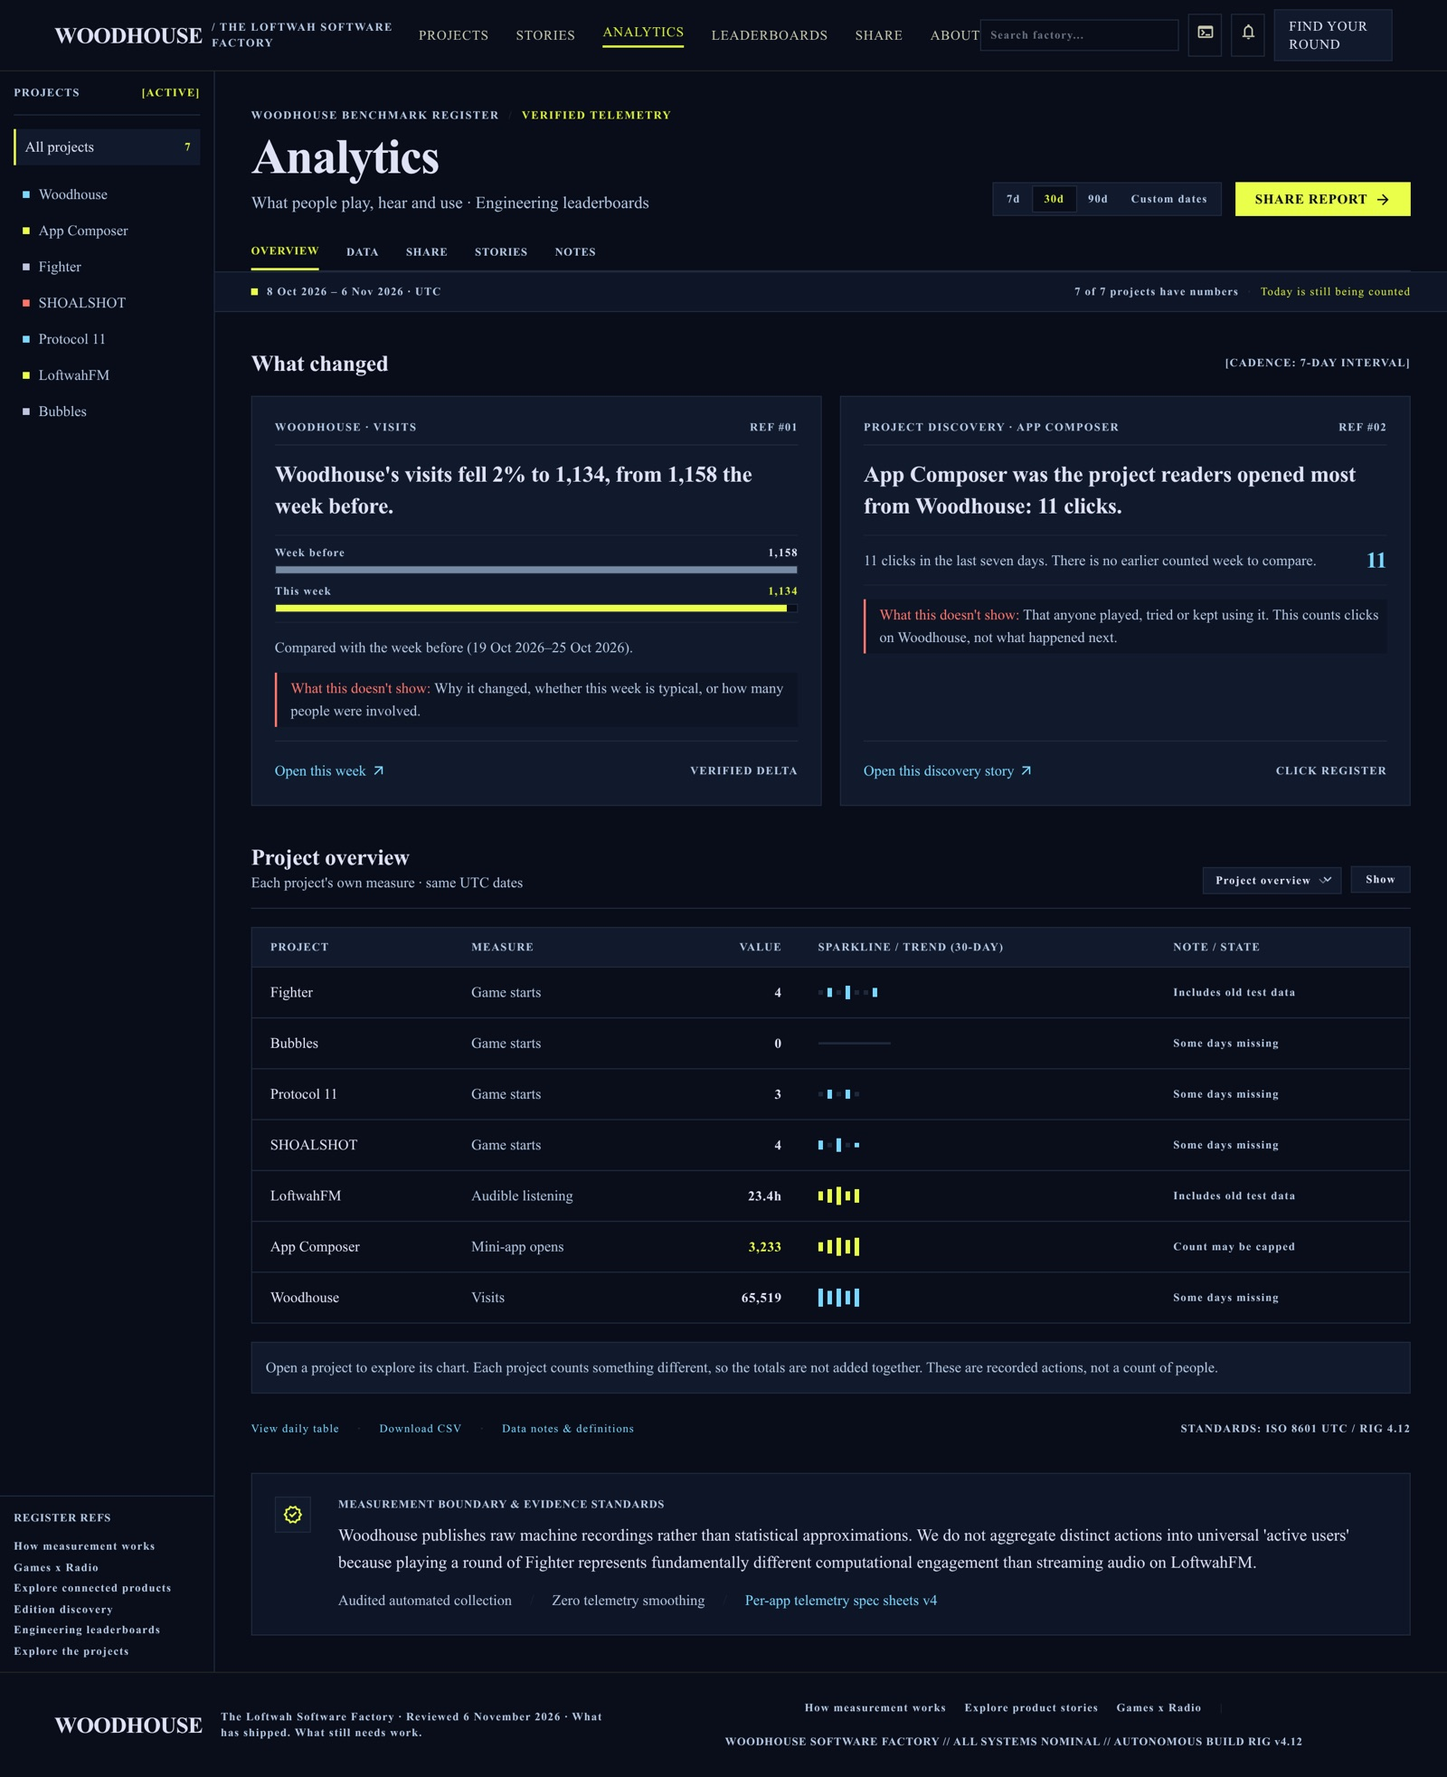
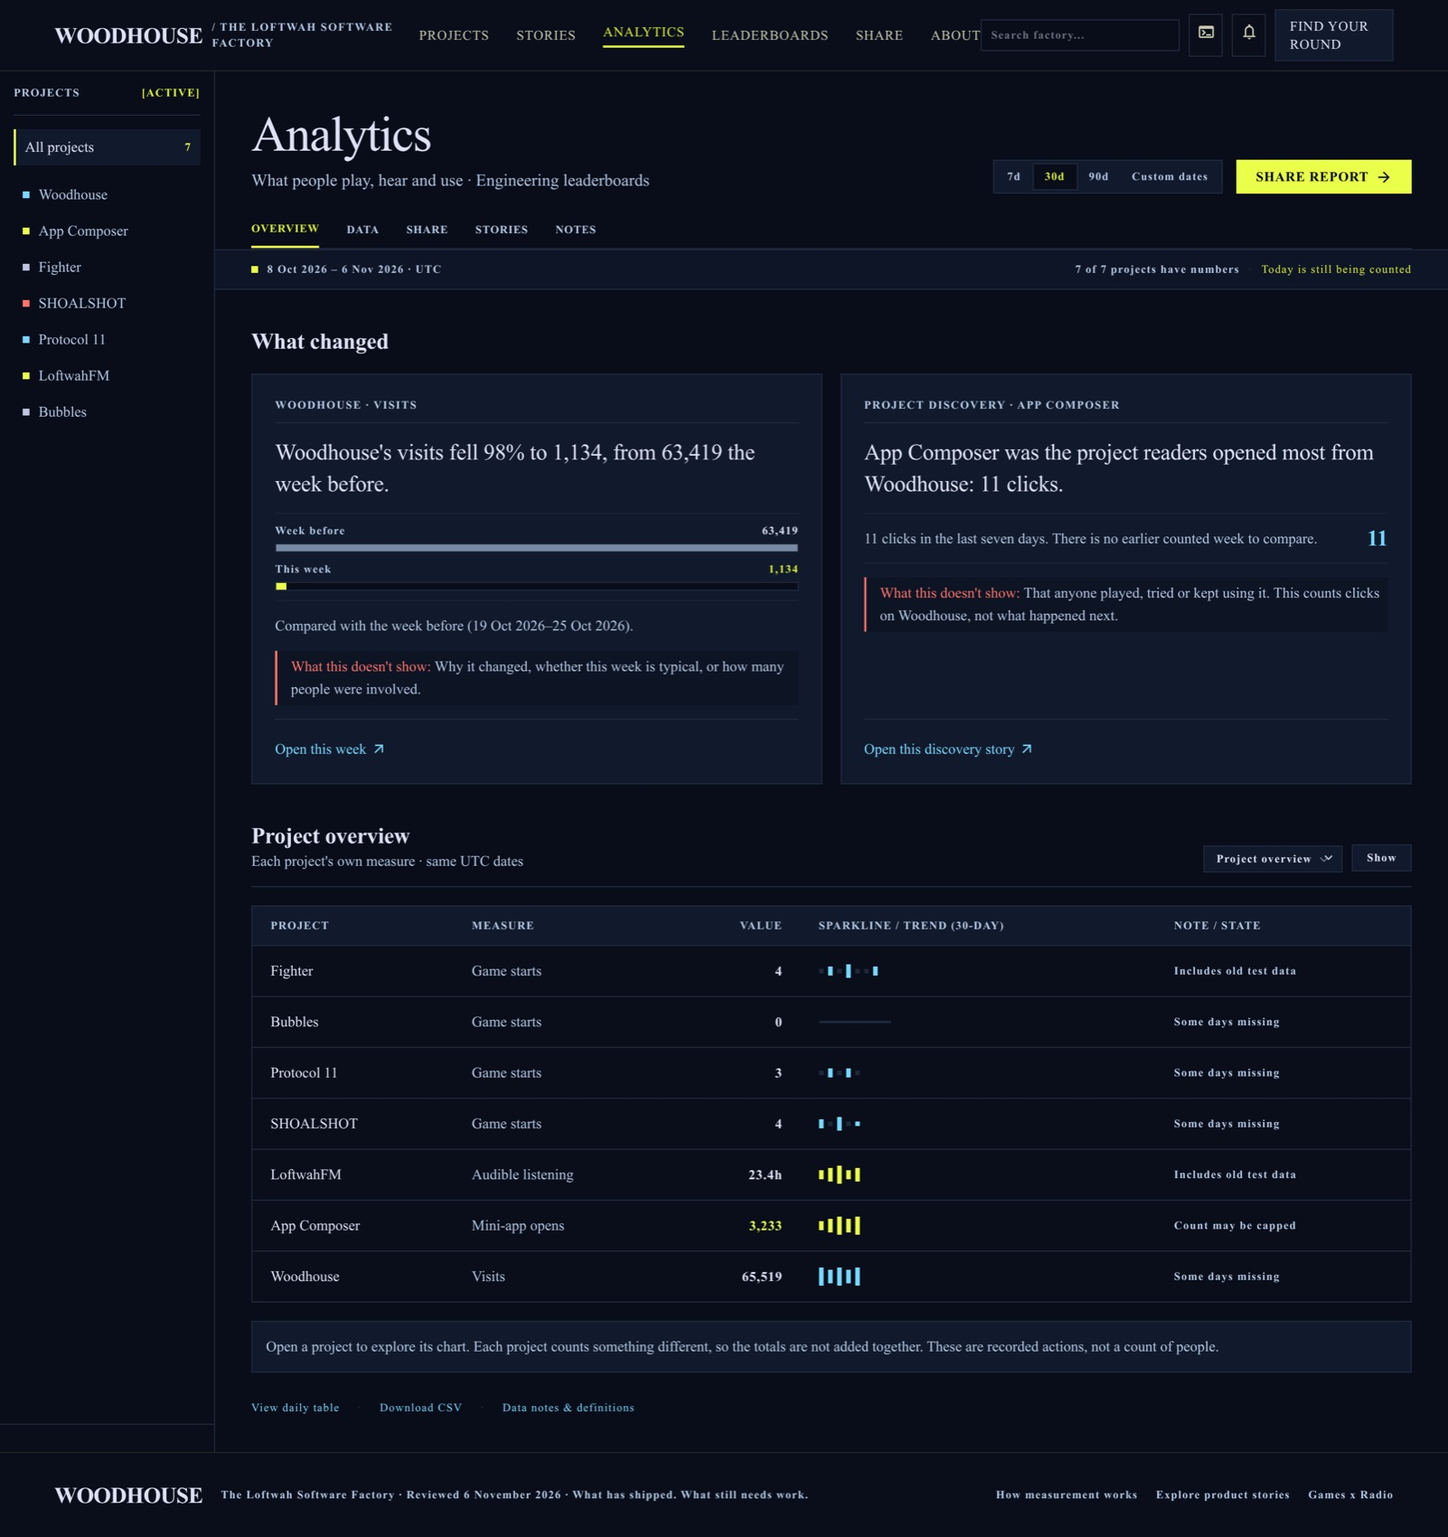
Correct the analytics Stitch reference and generate the remaining design families
The analytics screen now carries only the real figures (98% fall, 1,134 this
week from 63,419) and none of the invented benchmark, telemetry or ISO chrome.
Nine further screens cover leaderboards, listening, architecture, evidence,
factory, connections, Woodhouse-owned surfaces, a 390px catalogue and the
interaction state sheet, plus a closing consistency record.

Every new screen arrived with an invented instrument layer; nine needed at
least one correction and one kept a document id after two. The review record
names the residual defects, the superseded screen ids and the audit method:
check the generated HTML, not the screenshot.

Design references only. No production route changed.

diff --git a/docs/stitch/README.md b/docs/stitch/README.md
@@ -1,12 +1,11 @@
 # Woodhouse Stitch project
 
-Reviewed 6 November 2026. This records what was actually generated in Google Stitch, what was
+Reviewed 7 November 2026. This records what was actually generated in Google Stitch, what was
 rejected, and what a future pass must correct. Stitch is a design workspace; it is not evidence that
 a screen works, that the content is true or that the production site has changed.
 
-The remaining Stitch work is parked in [issue #170](https://github.com/loftwah/woodhouse-new/issues/170)
-after the service hit its daily generation limit. Production repairs and the Storybook workshop did
-not depend on it and are already shipped.
+The design work is tracked in [issue #170](https://github.com/loftwah/woodhouse-new/issues/170). No
+production route changed in either pass, and this pass did not redeploy the site.
 
 ## Project
 
@@ -16,9 +15,13 @@ not depend on it and are already shipped.
   (Stitch generated this from the first prompt; it approximates the production tokens rather than
   reproducing them exactly. The canonical tokens are in [`DESIGN-FOUNDATION.md`](DESIGN-FOUNDATION.md)
   and `src/styles/global.css`.)
-- **Device:** desktop project with a separate 390px mobile screen.
+- **Device:** desktop project with separate 390px mobile screens.
 
 ## Screens generated
+
+The 6 November pass produced the first eight. The 7 November pass corrected the analytics screen and
+generated the seven missing families. Where a correction produced a new screen, the accepted screen
+is listed; superseded intermediate screens are listed further down and must not be used.
 
 | File | Screen | Stitch ID | Notes |
 | --- | --- | --- | --- |
@@ -26,10 +29,37 @@ not depend on it and are already shipped.
 | `02-projects.jpg` | Projects catalogue | `70d71a81fbd840d2ae8634545d408989` | Accurate names and hooks. Disciplines/actions for the lower rows were inferred by the model; production's published fields are authoritative. Artwork is abstract placeholder. State labels are too low contrast. |
 | `03-project-bubbles.jpg` | Bubbles project record | `e476b48600524396a7548b5b5ad73209` | Uses the supplied copy. Placeholder artwork. Review before using any spacing or copy treatment. |
 | `04-field-note.jpg` | Field-note article | `c4a9cc36b55e47f6901ea58af787e4f7` | Uses the supplied argument and evidence rail. Check the plate's labels against the real article. |
-| `05-analytics.jpg` | Analytics workbench | `4c8e4eea61114476a69251f6369e868f` | **Not accepted as-is.** See "Known inaccuracies". |
+| `05-analytics.jpg` | Analytics workbench, corrected | `446563288c1549bbb56b520ca8436857` | **Accepted.** Replaces `4c8e4eea61114476a69251f6369e868f`. Real figures only: 98% fall, 1,134 this week, 63,419 the week before, 11 discovery clicks, and the seven project rows with their notes. Two correction passes removed the benchmark register, "verified telemetry", reference numbers, ISO/rig footer, `REGISTER REFS` rail label and the invented reading-notes panel. The rail's six footer links were dropped by the model in the second pass; not restored. |
 | `06-share.jpg` | Share gallery | `7ce2bb923a7b437e8f6f9993f4f20eb9` | Uses the real asset descriptions. Placeholder previews; production uses the approved files. |
 | `07-patch-bench.jpg` | Patch bench exhibit | `13595482b46a47179b65209d1c659196` | Direction only. The real exhibit is HTML/CSS/canvas with one audio context; this is a flat reference. |
 | `08-mobile-home.jpg` | Homepage, 390px | `b43b458af66846e88841b2cb8f701bf4` | Reading order is correct: `h1` and actions before the plate. Loom is a placeholder. |
+| `09-leaderboards.jpg` | Engineering leaderboards | `3c7cd840fdd546dfbde13e10f6928ad4` | **Accepted.** Corrected once to remove an invented ratio ("4 of 7 repositories reporting") and a status footer. Four repository rows with real partial/missing coverage states. |
+| `10-listening.jpg` | Scores and listening | `1b26f24c2cd542328b490124a28478f2` | **Accepted.** Corrected once to remove a "system status / build rig" footer and an invented timestamp label. Keeps the reported-listening rows, the dash-for-missing rule and both coral boundary statements. |
+| `11-architecture.jpg` | How Woodhouse works | `44cba77a72eb406fb46d26168934f7c8` | **Accepted with deviation.** Register/plate chrome and an invented right-rail record block removed. The plate's three boundary labels collide at narrow desktop widths, so it is a composition reference only. Supplied boundary copy survives in the transcript, which is why "telemetry" and "verified" appear in the source. |
+| `12-evidence.jpg` | Evidence record | `2501617aa2fc4427b391194a55925b0d` | **Accepted.** Corrected to remove `EVIDENCE RECORD 04 / 12`, `REV - 04-A`, `REGISTER REF: EVD-2026-004`, `VERIFIED`, `BOUND` and the audit-protocol line. |
+| `13-factory.jpg` | The factory | `afa170d5427e44368ed8c1bb3f1fd5ae` | **Accepted with deviation.** Instrument labels and the diagram's invented internals removed. `DOC-ID: FCT-094` survived two explicit correction requests and remains in the breadcrumb; crop or remove it before any use. |
+| `14-connections.jpg` | Connections | `b13a26813750401e9ace02bbcc596cbb` | **Accepted.** Corrected to remove `SYNC INTEGRITY: 100%`, the plate header, node ids and the index/cadence labels. The five-row ledger and the source-only states are correct. |
+| `15-extension-states.jpg` | Woodhouse-owned surfaces | `5e120b0fc2d4468e94acda28771bcd0b` | **Accepted.** Three panels: the editorial policy refusal, the enquiries list and the read-only production boundary. Corrected to remove `SPEC / REF-048`, `SEC 01–03`, `ENVIRONMENT STATE: LOCKED` and the record counter. The browser title still contains `SPEC`; the visible breadcrumb does not. |
+| `16-mobile-projects.jpg` | Projects catalogue, 390px | `496c4282411e43c18f4670bfee5c5c20` | **Accepted.** Deliberate phone composition: stacked linked rows, a clipped horizontal filter rail, 44px targets and a labelled artwork placeholder. The per-row `NN / 12` counter and the card treatment are deviations from production's open rows. |
+| `17-interaction-states.jpg` | Interaction and component states | `814da68016b5444daedb3b9a69f9926e` | **Accepted.** Covers actions, search, filters, share, media, analytics, forms, status labels and motion. Corrected to remove the analysis-band chrome and to replace the invented status word "Nominal standby". |
+| `18-design-references.jpg` | Design references, closing record | `98f7a54550dd4e22a6f958e5013ef422` | **Accepted.** The consistency record for the whole set: what each screen is, what was corrected, what is banned and what deviations remain. Its own correction removed an invented `CONSISTENCY SCORE: 100%` audit strip — the same failure the sheet documents. |
+
+### Superseded screens
+
+These exist in the project and must not be used as references:
+
+| Superseded ID | Replaced by |
+| --- | --- |
+| `4c8e4eea61114476a69251f6369e868f` | `446563288c1549bbb56b520ca8436857` (analytics) |
+| `a174a7b720a34a34bf239e2d8922519d` | `446563288c1549bbb56b520ca8436857` (first correction, still had `REGISTER REFS`) |
+| `7056b66902b34a3aba7436afa8acf6d8` | `3c7cd840fdd546dfbde13e10f6928ad4` |
+| `c3ad2bfa404f4856acd03d8f352235d7` | `1b26f24c2cd542328b490124a28478f2` |
+| `113994f647bb4ad6b8d16f6f12f949b9` | `44cba77a72eb406fb46d26168934f7c8` |
+| `01177786c433458eb5eb87366d593805` | `2501617aa2fc4427b391194a55925b0d` |
+| `7d90e384e05b4005890370999833f642` | `afa170d5427e44368ed8c1bb3f1fd5ae` |
+| `23bc68bce5d441a7b059c615b1d446c9` | `b13a26813750401e9ace02bbcc596cbb` |
+| `0f9f1113bcd64945a2aec8f3598cc319` | `5e120b0fc2d4468e94acda28771bcd0b` |
+| `e0326362eb604e3882cd71d77066072d` | `98f7a54550dd4e22a6f958e5013ef422` |
 
 ## Rejected first pass
 
@@ -43,34 +73,59 @@ is retained in the project by the service but must not be used. It invented:
 It is a worked example of why generated design is not accepted on appearance. The corrected screens
 above use the real content supplied in the prompts.
 
+## The recurring failure: invented instrument chrome
+
+Every new screen in the 7 November pass arrived with an invented "instrument" layer: a status
+footer (`SYSTEM STATUS: ONLINE`, `ALL SYSTEMS NOMINAL`, `AUTONOMOUS BUILD RIG v4.12`), document and
+reference ids (`DOC-ID: FCT-094`, `REF-048`, `REGISTER REF: EVD-2026-004`), plate and figure labels,
+and occasionally a fabricated figure (`SYNC INTEGRITY: 100%`, `CONSISTENCY SCORE: 100%`, a "4 of 7
+repositories reporting" ratio).
+
+This survived the generic instruction "do not invent". It only went away when a correction named
+the exact strings to delete and the exact words to avoid. Nine of the eleven new screens needed at
+least one correction; the analytics screen needed two.
+
+What worked, and should be used first next time:
+
+1. Treat generation as a first draft. Budget one correction per screen.
+2. In the correction, list the literal strings to delete, the words to avoid, and the exact content
+   to keep. Generic "remove invented chrome" is not enough.
+3. Verify the result by auditing the generated HTML, not the screenshot. Download `htmlCode`, strip
+   tags, and search for banned tokens and percentages. This caught two screens that looked clean and
+   one rejection that only existed in the `<title>`.
+4. Two correction requests were silently ignored for `13-factory.jpg`. Record the residual rather
+   than claiming a clean pass.
+
 ## Known inaccuracies in the accepted references
 
-- **Analytics (05)** still carries generated technical chrome ("benchmark register", "verified
-  telemetry", reference numbers, ISO certification, an invented measurement-boundary box and a
-  system-status footer) and a placeholder prior value of 1,158 instead of the real 63,419. The
-  correction request hit the daily Stitch generation limit on 6 November 2026. The real figures and
-  allowed labels are in [Prompt 06](../STITCH-PROMPT-PACK.md#prompt-06--analytics). Do not copy this
-  screen's numbers or chrome; use the production page.
-- **Artwork** in every screen is a placeholder. It is never evidence of the product's official
-  artwork. Production reads each product's published Open Graph image.
-- **Inferred fields.** The catalogue screen inferred some disciplines, actions and statuses for
+- **Artwork** in every screen is a placeholder. Stitch's available tool surface can generate screens
+  from text and edit them with text, but it exposes no screen-image upload, so the placeholders
+  could not be replaced with real product artwork in this pass. Every one is labelled
+  `ARTWORK FROM THE PROJECT` or `PLACEHOLDER`. Production reads each product's published Open Graph
+  image.
+- **Inferred fields.** The catalogue screens inferred some disciplines, actions and statuses for
   lower rows. The published EmDash record is authoritative.
-- **Type and buttons.** Stitch uses heavier display weights, uppercase primary buttons and slightly
-  rounder corners than production. Production uses Bricolage Grotesque at 500, sentence-case actions
-  and 0–2px corners.
-- **Loom plate.** The real plate is browser-drawn fibre artwork with a still fallback. The references
-  use a quiet placeholder.
+- **Type.** Stitch renders display type heavier and wider than Bricolage Grotesque at 500. Several
+  new screens render display headings in a serif face instead of Bricolage; production uses
+  Bricolage Grotesque. Primary buttons are uppercase and corners reach 4px on some panels.
+  Production uses sentence-case actions and 0–2px corners.
+- **Loom plate.** The real plate is browser-drawn fibre artwork with a still fallback. The
+  references use a quiet placeholder.
+- **Residual chrome.** `13-factory.jpg` keeps `DOC-ID: FCT-094` in its breadcrumb. `11-architecture.jpg`
+  keeps a collided boundary label in its plate. Neither is a content claim, but neither should be
+  copied.
 
 ## What was not generated
 
-- Leaderboards, listening and measurement-choice screens.
-- Architecture/evidence detail, Factory, Connections, Agent Reception, Dean, Contact, Doctrine.
-- EmDash-owned authoring surfaces.
-- Component/state sheets and a formal responsive matrix.
+- Agent Reception, Dean, Contact and Doctrine (the remaining four pages of prompt 11).
+- Tablet, laptop and large-desktop compositions for the responsive matrix (prompt 13); only the
+  390px projects catalogue was generated.
+- The working-loom and shipping-press plates (prompts 16 and 16B), which are gated behind the
+  #158/#90 first-frame comparison and were deliberately not commissioned here.
+- EmDash-owned authoring surfaces beyond the three extension panels.
+- A public Storybook, and any runtime Stitch dependency.
 
-Those remain manual Stitch work. Use
-[`STITCH-PROMPT-PACK.md`](../STITCH-PROMPT-PACK.md) prompts 07, 09, 11, 12, 13, 14 and 15. They are
-written to be pasted directly into the same project so the generated design system stays consistent.
+These remain manual Stitch work. Paste prompts 11, 13 and 16 directly into the same project.
 
 ## What the mockups changed in production
 
@@ -86,11 +141,17 @@ changed the production system where they were materially better:
 | 05 Analytics | The real 98% / 63,419 / 1,134 copy and singular "1 click" are correct in production; the phone rail opens on the selected project. | Every piece of invented benchmark, telemetry and ISO chrome. |
 | 06 Share | The phone project rail scrolls horizontally with an edge fade and opens on the current project. | Placeholder previews; production uses the approved files. |
 | 07 Patch bench | No visual copy. The real exhibit remains the authored HTML/CSS/canvas experience. | The flat generated bench. |
+| 09–18 | No production change. These are design references only; the live routes remain authoritative. | Every generated state label, placeholder and correction artefact. |
 
 This is the intended relationship: the mockups propose composition and hierarchy; the production
-route keeps its real content, artwork, accessibility and evidence. The remaining ungenerated
-families can be inferred from the foundation and these patterns, but the design work in
-[issue #170](https://github.com/loftwah/woodhouse-new/issues/170) is still useful if it is picked up.
+route keeps its real content, artwork, accessibility and evidence.
+
+## Prompt 15, executed as an audit
+
+Prompt 15 asks for comparison and removal, not a new page. It was executed twice: as a
+source-checked audit of every generated screen's HTML, and as the closing record screen
+(`18-design-references.jpg`). The audit is the stronger artefact — a screenshot can hide a wrong
+number in a favicon-sized label, and the HTML cannot.
 
 ## Signature artwork
 
@@ -105,12 +166,13 @@ failure to erase.
 ## Continuing safely
 
 1. Open the project in Stitch and confirm the design system is `Woodhouse`.
-2. Paste one prompt at a time. Supply real content; do not ask the model to fill gaps.
+2. Paste one prompt at a time. Supply real content, verbatim sentences and exact numbers; do not ask
+   the model to fill gaps.
 3. Compare the result with the live route and the inventory before accepting it.
-4. If the model invents a metric, project or certification, reject the screen rather than editing
-   around it. The first pass is the reason for this rule.
-5. Record the new screen ID and its review outcome in this file.
-6. Never treat a Stitch screen as production verification.
+4. Budget one correction pass. Name the exact strings to delete and the words to avoid.
+5. Audit the generated HTML for banned tokens and percentages, not only the screenshot.
+6. Record the new screen ID, its superseded predecessors and its review outcome in this file.
+7. Never treat a Stitch screen as production verification.
 
 ## Downloads
 

diff --git a/docs/STITCH-PROMPT-PACK.md b/docs/STITCH-PROMPT-PACK.md
@@ -1,14 +1,18 @@
 # Woodhouse Stitch prompt pack
 
-Reviewed 6 November 2026. Copy each prompt into the Woodhouse Stitch project
+Reviewed 7 November 2026. Copy each prompt into the Woodhouse Stitch project
 (`projects/2818325185592691947`) in order. The project's design system is `Woodhouse`; use it for
 every screen so the foundational tokens stay consistent.
 
 The first generation pass invented metrics, projects and statuses. It was rejected. The rules below
 exist because that happened: **do not invent**. Read
 [`stitch/README.md`](stitch/README.md) for the review record and the screens already generated.
-The unfinished prompts are parked in
-[issue #170](https://github.com/loftwah/woodhouse-new/issues/170).
+
+Status after the 7 November 2026 pass: prompts 00–08 are generated; 06 was corrected twice and is
+accepted. Prompt 07 (both screens), 09 (both), 12, 14 and 15 are generated and recorded. Prompt 11
+produced Factory and Connections only; prompt 13 produced the 390px projects catalogue only. The
+rest of 11 and 13, and prompts 16/16B, remain manual. Every new screen needed at least one
+correction for invented chrome — see the finding in `stitch/README.md` before generating.
 
 ## Non-negotiable content rules for every prompt
 
@@ -26,6 +30,23 @@ The unfinished prompts are parked in
 - Every number must belong to the screen's supplied context. Missing stays missing; a reported
   zero stays zero; different units are never added into one total.
 - Phones are composed, not squeezed: author the reading order and keep 44px targets.
+
+### Banned chrome — added 7 November 2026
+
+Stitch adds an invented instrument layer to thin editorial pages even when told not to invent. Ban
+it by name in the prompt, then name the literal strings to delete in one correction pass:
+
+- no status footer (`SYSTEM STATUS: ONLINE`, `ALL SYSTEMS NOMINAL`, `AUTONOMOUS BUILD RIG`), no
+  rig, revision or build id;
+- no document, plate, figure or register ids (`DOC-ID`, `REF-048`, `REGISTER REF`, `SEC 01`,
+  `PLATE 01`, `FIG 1.0`, `SPEC-REF`);
+- no percentage, score, ratio, uptime, latency or "integrity" figure that the prompt did not supply;
+- no internal codenames used as instrument labels (`CODES ENVIRONMENT`, `ARTIFACT CAPTURE`,
+  `EDITORIAL REGISTER`);
+- no second footer link set (`Archive 2024`, `Telemetry logs`, `Index register`, `Spec sheets`,
+  `Security compliance`).
+
+Verify by downloading the generated HTML and searching it, not by reading the screenshot.
 
 ---
 
@@ -196,6 +217,11 @@ source limits.
 Footer as the site.
 
 ## Prompt 06 — Analytics
+
+Executed 7 November 2026 and accepted as `446563288c1549bbb56b520ca8436857`
+(`screens/05-analytics.jpg`). Two correction passes were needed: the first fixed the figures and
+removed the benchmark/ISO chrome but kept `CADENCE: 7-DAY INTERVAL`, a `REGISTER REFS` rail label and
+an invented reading-notes panel; the second removed them.
 
 Design `/activity/`, the analytics research workbench.
 
